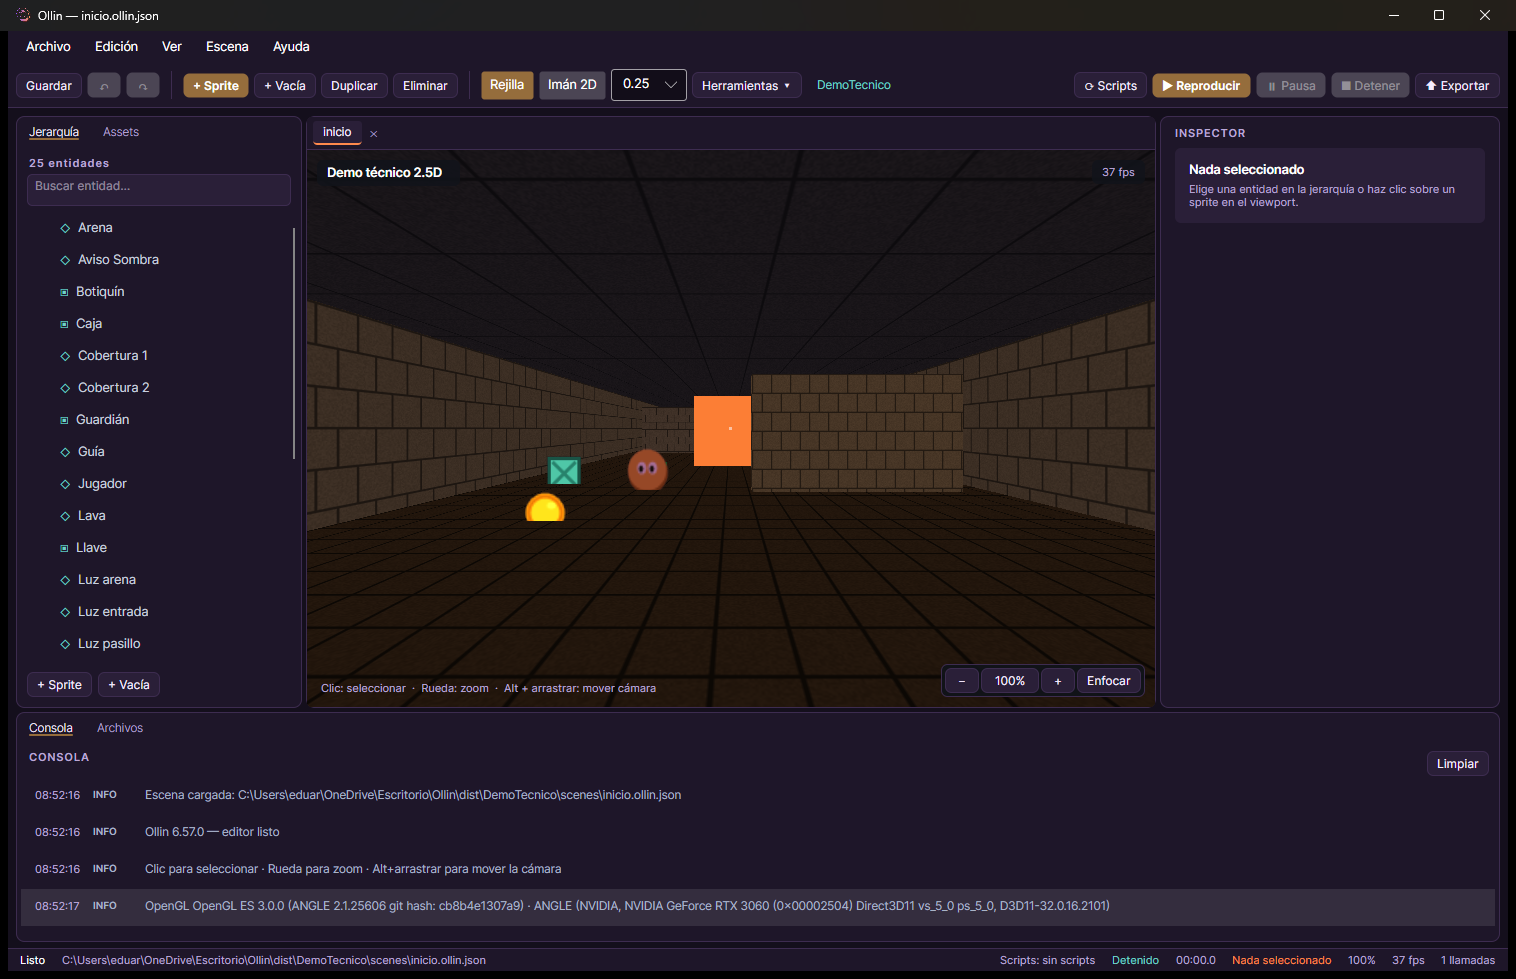
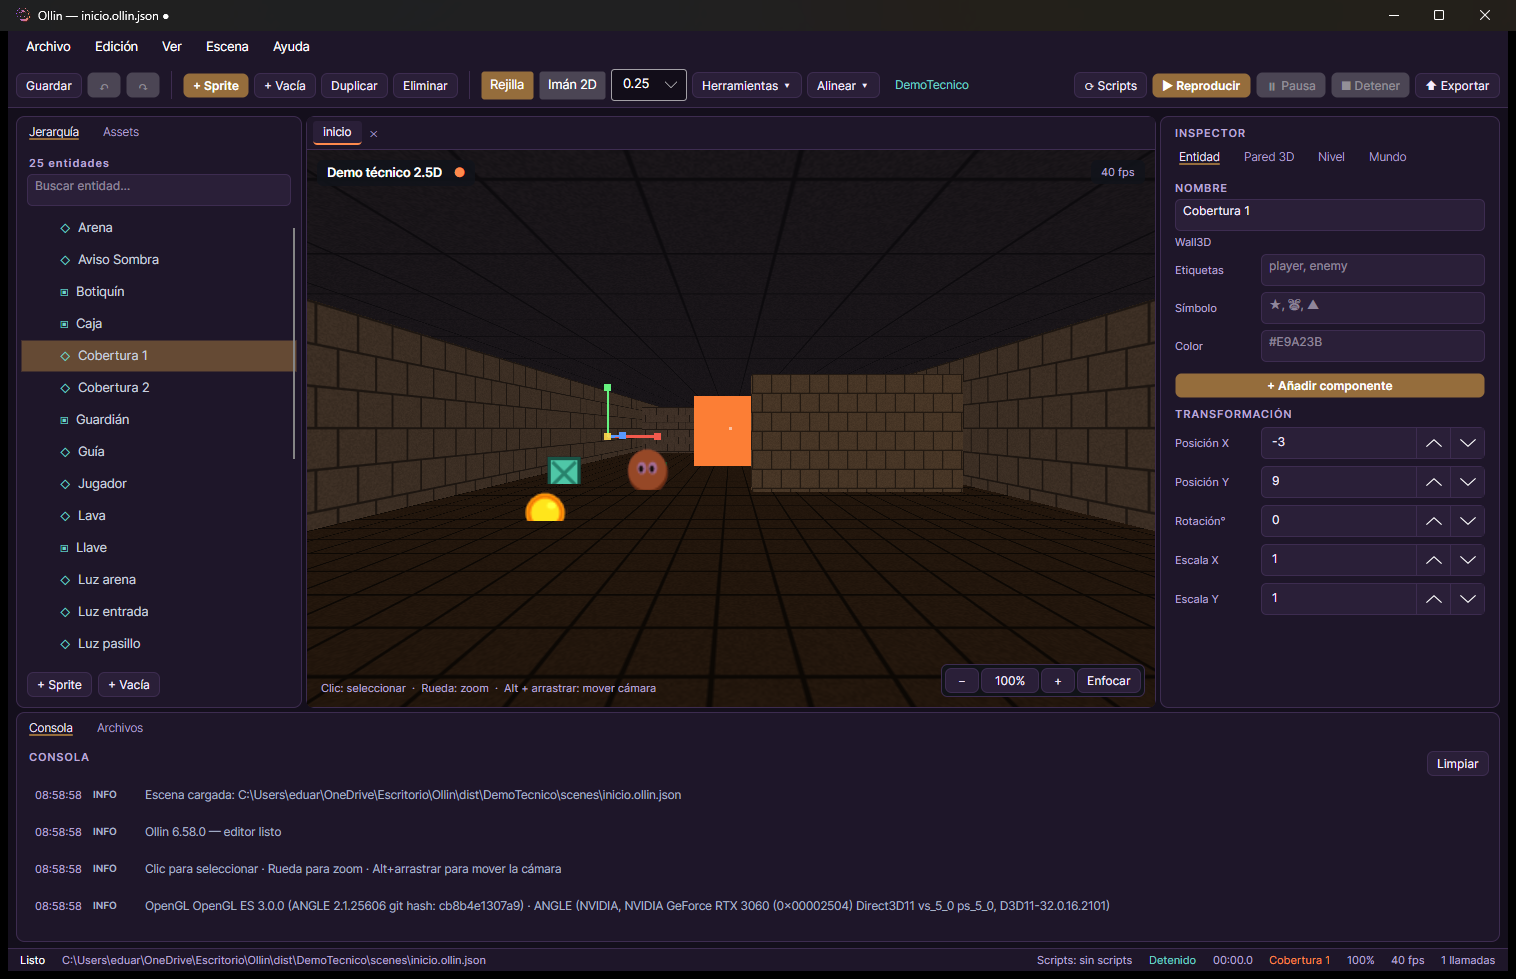
Beta 6.59.0: alinear y distribuir entidades

diff --git a/src/Ollin.Editor/ViewModels/MainViewModel.cs b/src/Ollin.Editor/ViewModels/MainViewModel.cs
@@ -26,6 +26,8 @@ public sealed partial class MainViewModel : ObservableObject
     private Vector2 _fallbackCameraPosition;
     private Scene _scene = new();
     private EntityNode? _selected;
+    private readonly List<EntityNode> _selection = new();
+    private bool _selectionAdd;
     private bool _showGrid = true;
     private string _statusMessage = "Listo";
     private string? _scenePath;
@@ -202,13 +204,29 @@ public sealed partial class MainViewModel : ObservableObject
                 return;
             }
 
+            if (!_selectionAdd)
+            {
+                _selection.Clear();
+                if (value is not null) _selection.Add(value);
+            }
+
             OnPropertyChanged(nameof(HasSelection));
             OnPropertyChanged(nameof(HasNoSelection));
             OnPropertyChanged(nameof(SelectionText));
+            OnPropertyChanged(nameof(HasMultipleSelection));
+            OnPropertyChanged(nameof(SelectionCount));
+            OnPropertyChanged(nameof(SelectionIds));
             RequestRedraw();
         }
     }
 
+    public IReadOnlyList<EntityNode> Selection => _selection;
+
+    public IReadOnlyList<Guid> SelectionIds => _selection.Select(node => node.Id).ToList();
+
+    public int SelectionCount => _selection.Count;
+
+    public bool HasMultipleSelection => _selection.Count > 1;
     public bool HasSelection => Selected is not null;
 
     public bool HasNoSelection => Selected is null;
@@ -273,7 +291,9 @@ public sealed partial class MainViewModel : ObservableObject
 
     public string ScenePathText => ScenePath is null ? "Sin guardar" : ScenePath;
 
-    public string SelectionText => Selected is null ? "Nada seleccionado" : Selected.Entity.Name;
+    public string SelectionText => _selection.Count > 1
+        ? $"{_selection.Count} entidades seleccionadas"
+        : Selected?.Entity.Name ?? "Nada seleccionado";
 
     public string EntityCountText => $"{Scene.Entities.Count} entidades";
 
@@ -1241,17 +1261,117 @@ public sealed partial class MainViewModel : ObservableObject
         RequestRedraw();
     }
 
-    public void Select(Entity? entity)
+    public void Select(Entity? entity, bool additive = false)
     {
         if (entity is null)
         {
-            Selected = null;
+            if (!additive) Selected = null;
             return;
         }
 
-        Selected = FindNode(entity.Id);
+        var node = FindNode(entity.Id);
+        if (node is null) return;
+
+        if (!additive)
+        {
+            Selected = node;
+            return;
+        }
+
+        _selectionAdd = true;
+        try
+        {
+            if (_selection.Contains(node))
+            {
+                _selection.Remove(node);
+                Selected = _selection.LastOrDefault();
+            }
+            else
+            {
+                _selection.Add(node);
+                Selected = node;
+            }
+        }
+        finally
+        {
+            _selectionAdd = false;
+            OnPropertyChanged(nameof(SelectionText));
+            OnPropertyChanged(nameof(HasMultipleSelection));
+            OnPropertyChanged(nameof(SelectionCount));
+            OnPropertyChanged(nameof(SelectionIds));
+            RequestRedraw();
+        }
     }
 
+    public void AlignSelected(string mode)
+    {
+        if (_selection.Count < 2) return;
+
+        var bounds = _selection.ToDictionary(node => node, GetSelectionBounds);
+        var left = bounds.Values.Min(value => value.Left);
+        var right = bounds.Values.Max(value => value.Right);
+        var top = bounds.Values.Min(value => value.Top);
+        var bottom = bounds.Values.Max(value => value.Bottom);
+        var centerX = (left + right) / 2m;
+        var centerY = (top + bottom) / 2m;
+
+        foreach (var node in _selection)
+        {
+            var size = bounds[node];
+
+            switch (mode)
+            {
+                case "left": node.X = left + size.Width / 2m; break;
+                case "right": node.X = right - size.Width / 2m; break;
+                case "centerH": node.X = centerX; break;
+                case "top": node.Y = top - size.Height / 2m; break;
+                case "bottom": node.Y = bottom + size.Height / 2m; break;
+                case "centerV": node.Y = centerY; break;
+            }
+        }
+
+        StatusMessage = $"Alineadas {_selection.Count} entidades";
+    }
+
+    public void DistributeSelected(bool horizontal)
+    {
+        if (_selection.Count < 3) return;
+
+        var ordered = horizontal
+            ? _selection.OrderBy(node => node.X).ToList()
+            : _selection.OrderBy(node => node.Y).ToList();
+        var sizes = ordered.Select(GetSelectionBounds).ToList();
+        var first = horizontal ? sizes[0].Left : sizes[0].Bottom;
+        var last = horizontal ? sizes[^1].Right : sizes[^1].Top;
+        var total = horizontal ? sizes.Sum(size => size.Width) : sizes.Sum(size => size.Height);
+        var gap = (last - first - total) / (ordered.Count - 1);
+        var cursor = first;
+
+        foreach (var (node, size) in ordered.Zip(sizes))
+        {
+            if (horizontal)
+            {
+                node.X = cursor + size.Width / 2m;
+                cursor += size.Width + gap;
+            }
+            else
+            {
+                node.Y = cursor + size.Height / 2m;
+                cursor += size.Height + gap;
+            }
+        }
+
+        StatusMessage = $"Distribuidas {_selection.Count} entidades";
+    }
+
+    private static (decimal Left, decimal Top, decimal Right, decimal Bottom, decimal Width, decimal Height) GetSelectionBounds(EntityNode node)
+    {
+        var width = Math.Max(0m, node.SpriteWidth * Math.Abs(node.ScaleX));
+        var height = Math.Max(0m, node.SpriteHeight * Math.Abs(node.ScaleY));
+        var left = node.X - width / 2m;
+        var top = node.Y + height / 2m;
+        return (left, top, left + width, top - height, width, height);
+    }
     public void ZoomBy(float factor)
     {
         var camera = ActiveCamera;

diff --git a/src/Ollin.Editor/Controls/ViewportControl.cs b/src/Ollin.Editor/Controls/ViewportControl.cs
@@ -327,7 +327,8 @@ public sealed class ViewportControl : OpenGlControlBase
                     width,
                     height,
                     _viewModel.Selected?.Id,
-                    _viewModel.ShowGrid);
+                    _viewModel.ShowGrid,
+                    selectedEntityIds: _viewModel.SelectionIds);
             }
 
             if (_hasError)
@@ -399,7 +400,7 @@ public sealed class ViewportControl : OpenGlControlBase
     public bool IsGizmo3DDragging => _gizmo3DDragging;
 
     /// <summary>Selecciona una entidad del modo 2.5D lanzando un rayo desde la cámara.</summary>
-    public void Select3DAt(Point position)
+    public void Select3DAt(Point position, bool additive = false)
     {
         if (_viewModel?.ActiveCamera3D is not { } camera)
         {
@@ -447,7 +448,7 @@ public sealed class ViewportControl : OpenGlControlBase
             }
         }
 
-        _viewModel.Select(hit);
+        _viewModel.Select(hit, additive);
         RequestNextFrameRendering();
     }
 
@@ -826,7 +827,7 @@ public sealed class ViewportControl : OpenGlControlBase
     }
 
     /// <summary>Selecciona la entidad bajo un punto del viewport (coordenadas locales).</summary>
-    public void SelectAt(Point position)
+    public void SelectAt(Point position, bool additive = false)
     {
         if (_viewModel is null)
         {
@@ -862,7 +863,7 @@ public sealed class ViewportControl : OpenGlControlBase
         }
 
         Diag($"hit={(hit?.Name ?? "nada")} order={bestOrder}");
-        _viewModel.Select(hit);
+        _viewModel.Select(hit, additive);
         RequestNextFrameRendering();
     }
 

diff --git a/src/Ollin.Editor/Views/MainWindow.axaml.cs b/src/Ollin.Editor/Views/MainWindow.axaml.cs
@@ -393,6 +393,22 @@ public partial class MainWindow : Window
     private void OnBrushFloor(object? sender, Avalonia.Interactivity.RoutedEventArgs e) =>
         ViewportHost.Viewport.Brush3DMode = ViewportHost.Viewport.Brush3DMode == Controls.Brush3DMode.Floor ? Controls.Brush3DMode.None : Controls.Brush3DMode.Floor;
 
+    private void OnAlignLeft(object? sender, Avalonia.Interactivity.RoutedEventArgs e) => ViewModel?.AlignSelected("left");
+
+    private void OnAlignCenterH(object? sender, Avalonia.Interactivity.RoutedEventArgs e) => ViewModel?.AlignSelected("centerH");
+
+    private void OnAlignRight(object? sender, Avalonia.Interactivity.RoutedEventArgs e) => ViewModel?.AlignSelected("right");
+
+    private void OnAlignTop(object? sender, Avalonia.Interactivity.RoutedEventArgs e) => ViewModel?.AlignSelected("top");
+
+    private void OnAlignCenterV(object? sender, Avalonia.Interactivity.RoutedEventArgs e) => ViewModel?.AlignSelected("centerV");
+
+    private void OnAlignBottom(object? sender, Avalonia.Interactivity.RoutedEventArgs e) => ViewModel?.AlignSelected("bottom");
+
+    private void OnDistributeH(object? sender, Avalonia.Interactivity.RoutedEventArgs e) => ViewModel?.DistributeSelected(true);
+
+    private void OnDistributeV(object? sender, Avalonia.Interactivity.RoutedEventArgs e) => ViewModel?.DistributeSelected(false);
+
     private void OnZoomIn(object? sender, Avalonia.Interactivity.RoutedEventArgs e) => ViewModel?.ZoomBy(1.2f);
 
     private void OnZoomOut(object? sender, Avalonia.Interactivity.RoutedEventArgs e) => ViewModel?.ZoomBy(1f / 1.2f);

diff --git a/src/Ollin.Rendering/Renderer2D.cs b/src/Ollin.Rendering/Renderer2D.cs
@@ -109,7 +109,7 @@ public sealed class Renderer2D : IDisposable
 
     /// <summary>Dibuja un frame completo de la escena.</summary>
     public void RenderFrame(Scene scene, Vector2 cameraPosition, Camera2D camera, int width, int height,
-        Guid? selectedEntityId, bool showGrid, bool showHelpers = true)
+        Guid? selectedEntityId, bool showGrid, bool showHelpers = true, IReadOnlyCollection<Guid>? selectedEntityIds = null)
     {
         if (width <= 0 || height <= 0)
         {
@@ -132,11 +132,17 @@ public sealed class Renderer2D : IDisposable
         DrawSprites(scene, cameraPosition);
         DrawDebugDraw(camera, height);
 
-        if (selectedEntityId is { } id && showHelpers)
+        if (showHelpers)
         {
-            DrawSelection(scene, id, camera, height);
-        }
+            var ids = selectedEntityIds is { Count: > 0 }
+                ? selectedEntityIds
+                : selectedEntityId is { } selected ? new[] { selected } : Array.Empty<Guid>();
 
+            foreach (var id in ids.Distinct())
+            {
+                DrawSelection(scene, id, camera, height);
+            }
+        }
         _batch.End();
         DrawLighting(scene, camera, cameraPosition, width, height, viewProjection);
     }

diff --git a/src/Ollin.Editor/Controls/ViewportSurface.cs b/src/Ollin.Editor/Controls/ViewportSurface.cs
@@ -80,7 +80,7 @@ public sealed class ViewportSurface : Border
                 }
                 else
                 {
-                    Viewport.Select3DAt(position);
+                    Viewport.Select3DAt(position, e.KeyModifiers.HasFlag(KeyModifiers.Control));
                 }
 
                 e.Handled = true;
@@ -114,7 +114,7 @@ public sealed class ViewportSurface : Border
                 return;
             }
 
-            Viewport.SelectAt(position);
+            Viewport.SelectAt(position, e.KeyModifiers.HasFlag(KeyModifiers.Control));
             e.Handled = true;
         }
     }

diff --git a/docs/RELEASE-NOTES.md b/docs/RELEASE-NOTES.md
@@ -1,21 +1,22 @@
-## Ollin Beta 6.58.0 — pulido 2D
+## Ollin Beta 6.59.0 — alinear y distribuir
 
 ### Incluye
 
-- **Volteo vertical** de sprite.
-- Botones de **orden de capas**.
-- Barra flotante de **zoom** en el viewport.
+- **Ctrl+clic** para seleccionar varias entidades.
+- Menú **Alinear ▾**.
+- Alinear izquierda/centro/derecha y arriba/centro/abajo.
+- Distribuir horizontal y vertical.
 - **205 pruebas automatizadas**.
 
 ### Cómo probarlo
 
-1. Instala 6.58.0 y selecciona un sprite.
-2. En **Visual**, prueba voltear horizontal/vertical.
-3. Usa **Al fondo/Atrás/Adelante/Al frente**.
-4. Usa la barra de zoom inferior derecha.
+1. Instala 6.59.0 y abre una escena 2D.
+2. Haz clic en una entidad y `Ctrl+clic` en otra.
+3. Abre **Alinear ▾**.
+4. Prueba alinear y distribuir.
 
 ### Limitaciones
 
-- El orden de capas se guarda en el sprite, no como lista de escena.
-- La barra de zoom no reemplaza el zoom con rueda.
+- La selección múltiple es por Ctrl+clic; no hay lazo.
+- La jerarquía sigue seleccionando una entidad.
 - La demo técnica no se publica.

diff --git a/docs/BETA.md b/docs/BETA.md
@@ -1,4 +1,4 @@
-# Beta 6.58.0 de Ollin
+# Beta 6.59.0 de Ollin
 
 Compilación de prueba para instalar y usar el motor fuera del repositorio. Cierra la
 etapa 6 del roadmap (2.5D, grafo visual y pulido del editor).
@@ -30,7 +30,7 @@ etapa 6 del roadmap (2.5D, grafo visual y pulido del editor).
 
 ## Instalar
 
-1. Ejecuta `Ollin-Setup-6.58.0-beta.exe`.
+1. Ejecuta `Ollin-Setup-6.59.0-beta.exe`.
 2. Pulsa **Instalar**. Se copia en `%LOCALAPPDATA%\Ollin`.
 3. Se crean accesos directos en el escritorio y en el menú Inicio.
 4. Abre Ollin y elige un proyecto en el lanzador, o crea uno con la plantilla
@@ -85,7 +85,7 @@ dotnet publish tools/Ollin.Setup -c Release -r win-x64 --self-contained false `
 ## Prueba automática del instalador
 
 ```powershell
-$setup = "dist/installer/Ollin-Setup-6.58.0-beta.exe"
+$setup = "dist/installer/Ollin-Setup-6.59.0-beta.exe"
 Start-Process $setup -ArgumentList "--silent" -Wait
 Start-Process "$env:LOCALAPPDATA/Ollin/Desinstalar.exe" -ArgumentList "--uninstall --silent" -Wait
 ```

diff --git a/docs/GUIA.md b/docs/GUIA.md
@@ -996,3 +996,13 @@ error de sintaxis.
 - Botones **Al fondo / Atrás / Adelante / Al frente** para ordenar sprites.
 - Barra flotante de zoom en el viewport: −, porcentaje, + y Enfocar.
 - El zoom usa el mismo valor que la rueda y actualiza el porcentaje.
+
+## 57. Alinear y distribuir entidades (6.59)
+
+- **Ctrl+clic** en el viewport añade/quita entidades de la selección.
+- **Alinear ▾** en la barra:
+  - Izquierda, centro horizontal, derecha.
+  - Arriba, centro vertical, abajo.
+  - Distribuir horizontal/vertical.
+- El inspector muestra cuántas entidades hay seleccionadas.
+- Las entidades se alinean usando el tamaño real del sprite y su escala.

diff --git a/README.md b/README.md
@@ -23,7 +23,7 @@ Ollin es **gratis y de código abierto (MIT)**: puedes usarlo, modificarlo y dis
 
 ## Descargas
 
-- **Última beta**: [Ollin-Setup-6.58.0-beta.exe](https://github.com/deadcodeMx/ollin/releases/latest)
+- **Última beta**: [Ollin-Setup-6.59.0-beta.exe](https://github.com/deadcodeMx/ollin/releases/latest)
 - **Todas las versiones**: [Releases del proyecto](https://github.com/deadcodeMx/ollin/releases)
 - **Guía completa de uso**: [docs/GUIA.md](docs/GUIA.md)
 

diff --git a/CHANGELOG.md b/CHANGELOG.md
@@ -17,6 +17,15 @@ versionado [SemVer](https://semver.org/lang/es/).
 - Puente 2.5D y 3D.
 - Exportación de un juego a un ejecutable.
 
+## [6.59.0] — 2026-11-02
+
+### Añadido
+
+- Selección múltiple con Ctrl+clic en el viewport.
+- Menú Alinear: izquierda, centro, derecha, arriba, centro vertical, abajo.
+- Distribuir horizontal y vertical.
+- 205 pruebas automatizadas.
+
 ## [6.58.0] — 2026-11-02
 
 ### Añadido
